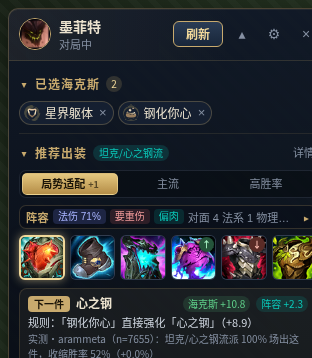
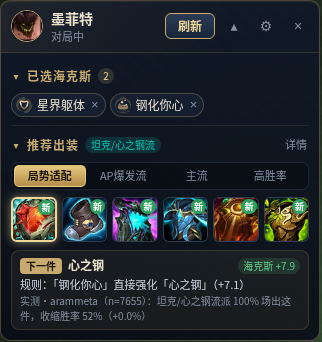
feat(overlay): augment cards show ranking points as the primary number, hide win rates by default (v0.3.2)

diff --git a/src/renderer/components/ManualOverlay.vue b/src/renderer/components/ManualOverlay.vue
@@ -202,11 +202,8 @@
                   </div>
                   <div class="mo-card-stats">
                     <template v-if="entry.method === 'shrunk'">
-                      <template v-if="!settings.hideWinRates">
-                        <span class="mo-wr">{{ formatPercent(entry.shrunkWinRate) }}</span>
-                        <span class="mo-delta" :class="deltaClass(entry.delta)">{{ formatDelta(entry.delta) }}</span>
-                      </template>
-                      <span class="mo-card-n" :title="cardSourceTitle(entry)">{{ cardSampleText(entry) }}</span>
+                      <span class="mo-score" :class="pointsClass(cardPoints(entry))" :title="SCORE_TITLE">{{ formatPoints(cardPoints(entry)) }}<small class="mo-score-unit">分</small></span>
+                      <span v-if="!settings.hideWinRates" class="mo-wr-small">胜率 {{ formatPercent(entry.shrunkWinRate) }}</span>
                       <span
                         v-if="synergyText(entry)"
                         class="mo-synergy"
@@ -214,6 +211,10 @@
                       >{{ synergyText(entry) }}</span>
                     </template>
                     <span v-else class="mo-muted">{{ entry.note }}</span>
+                  </div>
+                  <div v-if="entry.method === 'shrunk'" class="mo-card-sub" :title="cardSourceTitle(entry)">
+                    <span v-if="cardRarityText(entry)">{{ cardRarityText(entry) }}</span>
+                    <span class="mo-card-n">n={{ cardSampleText(entry) }}</span>
                   </div>
                   <div v-if="cardDetails" class="mo-card-detail">
                     <div v-if="entry.method === 'shrunk'">{{ cardDetailText(entry) }}</div>
@@ -269,10 +270,10 @@
             <div v-if="cardDetails" class="mo-footnote">
               <div v-if="ranking.method === 'rank-fallback'">无胜率数据：按热度排序，仅供参考</div>
               <div v-else-if="cardRankingSource !== 'dtodo'">
-                arammeta 方法：胜率向英雄基线 {{ settings.hideWinRates ? '' : formatPercent(ranking.baselineWinRate) }} 收缩（先验 {{ ranking.alpha }} 场），按 10% 保守下界 − 基线排序、同稀有度内比较；arammeta 没有的卡用 dtodo 胜率（同样收缩）；契合度（规则）最多调整 ±2 个百分点
+                大数字 = 排序分（相对英雄基线的百分点：arammeta 保守提升 + 契合度调整），数字大的永远排前面。arammeta 方法：胜率向英雄基线 {{ settings.hideWinRates ? '' : formatPercent(ranking.baselineWinRate) }} 收缩（先验 {{ ranking.alpha }} 场），按 10% 保守下界 − 基线排序、同稀有度内比较；arammeta 没有的卡用 dtodo 胜率（同样收缩）；契合度（规则）最多调整 ±2 个百分点
               </div>
               <div v-else-if="ranking.baselineWinRate != null">
-                收缩胜率 = (胜场 + α×{{ ranking.baselineSource === 'cards' ? '三卡平均' : '英雄平均' }}) / (场次 + α)，α={{ ranking.alpha }}，基准 {{ formatPercent(ranking.baselineWinRate) }}；契合度最多调整 ±2 个百分点
+                大数字 = 排序分（收缩胜率 + 契合度调整 − 基准，百分点）。收缩胜率 = (胜场 + α×{{ ranking.baselineSource === 'cards' ? '三卡平均' : '英雄平均' }}) / (场次 + α)，α={{ ranking.alpha }}{{ settings.hideWinRates ? '' : `，基准 ${formatPercent(ranking.baselineWinRate)}` }}；契合度最多调整 ±2 个百分点
               </div>
               <div>{{ ranking.summary }}</div>
               <div v-if="arammetaLine" class="mo-attribution">{{ arammetaLine }}</div>
@@ -375,7 +376,7 @@
                   class="mo-plan-tab"
                   :class="{ 'mo-plan-tab-active': activePlan?.key === plan.key }"
                   role="tab"
-                  :title="`${planTabLabel(plan)}\n${plan.description}\n路线：${plan.routeLabel} · ${plan.routeGames} 场 · 胜率 ${formatPercent(plan.routeWinRate)}`"
+                  :title="`${planTabLabel(plan)}\n${plan.description}\n路线：${plan.routeLabel} · ${plan.routeGames} 场${settings.hideWinRates ? '' : ` · 胜率 ${formatPercent(plan.routeWinRate)}`}`"
                   @click="selectPlan(plan.key)"
                 >{{ plan.label }}<span v-if="plan.aliases.length" class="mo-plan-alias">+{{ plan.aliases.length }}</span></button>
               </div>
@@ -497,7 +498,7 @@
                 <div class="mo-detail-plans">
                   <div v-for="plan in plans" :key="`plan-detail-${plan.key}`" class="mo-detail-plan" :class="{ 'mo-detail-plan-active': activePlan?.key === plan.key }">
                     <b>{{ planTabLabel(plan) }}</b>
-                    <span>{{ plan.routeLabel }} · {{ plan.routeGames }} 场 · 胜率 {{ formatPercent(plan.routeWinRate) }}{{ plan.usesAugments || plan.usesTeam ? ` · 含${[plan.usesAugments ? '海克斯' : '', plan.usesTeam ? '阵容' : ''].filter(Boolean).join('+')}模型` : ' · 纯数据' }}</span>
+                    <span>{{ plan.routeLabel }} · {{ plan.routeGames }} 场{{ settings.hideWinRates ? '' : ` · 胜率 ${formatPercent(plan.routeWinRate)}` }}{{ plan.usesAugments || plan.usesTeam ? ` · 含${[plan.usesAugments ? '海克斯' : '', plan.usesTeam ? '阵容' : ''].filter(Boolean).join('+')}模型` : ' · 纯数据' }}</span>
                     <span class="mo-detail-plan-desc">{{ plan.description }}</span>
                   </div>
                 </div>
@@ -536,6 +537,7 @@ import { electronAPI, hasElectronAPI } from '../native/electron-api.ts'
 import { getAugmentIconUrl, getChampionSquareIconUrl, getItemIconUrl } from '../service/cdn.js'
 import {
   rankAugmentChoices,
+  rankingPoints,
   type AugmentChoiceInput,
 } from '../../shared/augment-choice-ranking.ts'
 import { ARAMMETA_ATTRIBUTION } from '../../shared/arammeta/normalize.ts'
@@ -639,7 +641,7 @@ const settings = reactive<ManualOverlaySettings>({
   opacity: 0.92,
   scale: 1,
   collapsedSections: [],
-  hideWinRates: false,
+  hideWinRates: true,
 })
 const showSettings = ref(false)
 const championId = ref<number | null>(null)
@@ -960,7 +962,23 @@ const cardRankingSource = computed(() => (ranking.value as { source?: string }).
 const RARITY_SHORT: Record<string, string> = { kPrismatic: '棱彩', kGold: '金', kSilver: '银' }
 type CardEntry = SynergyRankedChoice<CardInput> & Partial<ArammetaRankedChoice<CardInput>>
 
-/** 默认视图只放样本量（紧凑）；同稀有度名次在悬停提示与详情里 */
+const SCORE_TITLE = '排序分：相对本英雄基线的百分点（arammeta 用保守下界，含契合度调整），数字大的排前面'
+function cardPoints(entry: CardEntry) {
+  return rankingPoints(entry, ranking.value.baselineWinRate)
+}
+function formatPoints(points: number | null) {
+  if (points == null) return '—'
+  return `${points > 0 ? '+' : points < 0 ? '−' : '±'}${Math.abs(points).toFixed(1)}`
+}
+function pointsClass(points: number | null) {
+  if (points == null || Math.abs(points) < 0.3) return 'mo-muted'
+  return points > 0 ? 'mo-up' : 'mo-down'
+}
+function cardRarityText(entry: CardEntry) {
+  return entry.rarityRank ? `同品质第 ${entry.rarityRank.rank}/${entry.rarityRank.total}` : ''
+}
+
+/** 样本量（紧凑） */
 function cardSampleText(entry: CardEntry) {
   return `${compactGames(entry.games)}${entry.source === 'dtodo' ? '·dtodo' : ''}`
 }
@@ -1113,6 +1131,7 @@ function itemTooltip(item: EngineItem) {
 function cardTooltip(entry: SynergyRankedChoice<CardInput>) {
   const lines = [`${entry.card.name}（点击记录为已选）`]
   if (entry.method === 'shrunk') {
+    lines.push(`排序分 ${formatPoints(cardPoints(entry as CardEntry))}（相对本英雄基线，百分点）`)
     if (!settings.hideWinRates) lines.push(`收缩胜率 ${formatPercent(entry.shrunkWinRate)}（相对基准 ${formatDelta(entry.delta)}）`)
     lines.push(cardDetailText(entry as CardEntry))
   }
@@ -1361,11 +1380,6 @@ function formatDelta(value: number | null | undefined) {
   if (!Number.isFinite(number)) return ''
   const points = number * 100
   return `${points > 0 ? '+' : points < 0 ? '−' : '±'}${Math.abs(points).toFixed(1)}`
-}
-
-function deltaClass(value: number | null | undefined) {
-  const number = Number(value)
-  return number > 0.0005 ? 'mo-up' : number < -0.0005 ? 'mo-down' : 'mo-muted'
 }
 
 function cardClass(entry: SynergyRankedChoice<CardInput>) {
@@ -1803,7 +1817,11 @@ onBeforeUnmount(() => {
 }
 .mo-card-stats { display: flex; align-items: baseline; gap: 6px; margin-top: 1px; white-space: nowrap; overflow: hidden; }
 .mo-plan-alias { margin-left: 3px; font-size: 9px; opacity: 0.65; }
-.mo-wr { color: var(--mo-ivory); font-size: 14px; font-weight: 700; font-variant-numeric: tabular-nums; }
+.mo-score { font-size: 15px; font-weight: 700; font-variant-numeric: tabular-nums; letter-spacing: 0.2px; }
+.mo-score.mo-muted { color: var(--mo-ivory); opacity: 0.8; }
+.mo-score-unit { margin-left: 2px; font-size: 9px; font-weight: 500; opacity: 0.7; }
+.mo-wr-small { font-size: 10px; color: rgba(200, 210, 225, 0.62); font-variant-numeric: tabular-nums; }
+.mo-card-sub { display: flex; gap: 6px; margin-top: 1px; font-size: 10px; line-height: 1.3; color: rgba(200, 210, 225, 0.55); white-space: nowrap; overflow: hidden; }
 .mo-delta { font-size: 11px; font-weight: 600; font-variant-numeric: tabular-nums; }
 .mo-up { color: var(--mo-up); }
 .mo-down { color: var(--mo-down); }

diff --git a/src/main/services/manual-overlay/manual-overlay-service.ts b/src/main/services/manual-overlay/manual-overlay-service.ts
@@ -36,6 +36,8 @@ import { DEFAULT_SHRINKAGE_ALPHA } from '../../../shared/augment-choice-ranking.
 
 export const DEFAULT_MANUAL_OVERLAY_HOTKEY = 'CommandOrControl+Shift+R'
 export const MANUAL_OVERLAY_SETTINGS_KEY = 'manualOverlay.settings'
+/** 0.3.2：海克斯卡改成「排序分」为主数字，胜率默认隐藏；旧设置迁移一次（之后用户可以再打开） */
+export const HIDE_WIN_RATES_MIGRATION_KEY = 'manualOverlay.migrations.hideWinRatesDefault'
 export const MANUAL_OVERLAY_COLLAPSED_KEY = 'manualOverlay.collapsed'
 export const DEFAULT_COLLAPSE_HOTKEY = 'CommandOrControl+Shift+H'
 const SECTIONS: ManualOverlaySection[] = ['cards', 'picked', 'build']
@@ -56,7 +58,7 @@ export const DEFAULT_MANUAL_OVERLAY_SETTINGS: ManualOverlaySettings = {
   opacity: 0.92,
   scale: 1,
   collapsedSections: [],
-  hideWinRates: false,
+  hideWinRates: true,
 }
 
 function clampNumber(value: unknown, min: number, max: number, fallback: number, step = 0.01): number {
@@ -176,7 +178,7 @@ function sanitizeSettings(raw: unknown): ManualOverlaySettings {
     collapsedSections: Array.isArray(value.collapsedSections)
       ? SECTIONS.filter((section) => (value.collapsedSections as unknown[]).includes(section))
       : [],
-    hideWinRates: value.hideWinRates === true,
+    hideWinRates: value.hideWinRates !== false,
   }
 }
 
@@ -340,6 +342,12 @@ export class ManualOverlayService {
     this.settings = sanitizeSettings(
       deps.store.get(MANUAL_OVERLAY_SETTINGS_KEY),
     )
+    if (deps.store.get(HIDE_WIN_RATES_MIGRATION_KEY) !== true) {
+      // 一次性：旧版本存的 hideWinRates=false 改成 true
+      this.settings = { ...this.settings, hideWinRates: true }
+      if (deps.store.get(MANUAL_OVERLAY_SETTINGS_KEY) != null) deps.store.set(MANUAL_OVERLAY_SETTINGS_KEY, { ...this.settings })
+      deps.store.set(HIDE_WIN_RATES_MIGRATION_KEY, true)
+    }
     this.state = {
       phase: null,
       gameRevision: 0,

diff --git a/tests/unit/real-match-fixes.test.ts b/tests/unit/real-match-fixes.test.ts
@@ -207,3 +207,22 @@ describe('8. 低优先级', () => {
     }
   })
 })
+
+describe('0.3.2 卡片主数字 = 排序分', () => {
+  it('数字大的卡永远排在前面（含契合度重排），没数据的为 null', async () => {
+    const { rankingPoints } = await import('../../src/shared/augment-choice-ranking.ts')
+    for (const ctx of [shaco, syndra, sion]) {
+      const pool = (ctx.champ.augments as any[]).slice(0, 12).map((a) => a.id)
+      for (let i = 0; i + 2 < pool.length; i += 3) {
+        const cards = [...pool.slice(i, i + 3).map((id, slot) => ({ id, slot, detectedSlot: slot })), { id: 999999, slot: 3, detectedSlot: 3 }]
+        const base = rankAugmentChoicesArammeta(cards as any, ctx.champ, { rarityOf: ctx.rarityOf })
+        const ranked = applyCardSynergy(base as any, (card: any) => ({ score: (card.id % 7) - 3, parts: { items: 0, archetype: 0, held: 0, trio: 0, team: 0 }, reasons: [] }))
+        const points = ranked.choices.map((choice) => rankingPoints(choice, ranked.baselineWinRate))
+        const known = points.filter((p): p is number => p != null)
+        for (let k = 1; k < known.length; k++) expect(known[k]).toBeLessThanOrEqual(known[k - 1])
+        expect(points[points.length - 1]).toBeNull()
+        expect(ranked.choices[ranked.choices.length - 1].relativeLabel).toBe('无数据')
+      }
+    }
+  })
+})

diff --git a/tests/unit/manual-overlay-service.test.ts b/tests/unit/manual-overlay-service.test.ts
@@ -1,5 +1,7 @@
 import { describe, expect, it, vi } from 'vitest'
 import {
+  HIDE_WIN_RATES_MIGRATION_KEY,
+  MANUAL_OVERLAY_SETTINGS_KEY,
   DEFAULT_MANUAL_OVERLAY_HOTKEY,
   ManualOverlayService,
   type ManualOverlayDeps,
@@ -195,9 +197,21 @@ describe('ManualOverlayService', () => {
       opacity: 0.92,
       scale: 1,
       collapsedSections: [],
-      hideWinRates: false,
+      hideWinRates: true,
     })
     expect(settings).not.toHaveProperty('autoScreenshot')
+  })
+
+  it('migrates hideWinRates to true once, then respects the user turning it off', () => {
+    const { deps, storeValues } = createDeps()
+    storeValues.set(MANUAL_OVERLAY_SETTINGS_KEY, { hideWinRates: false, opacity: 0.8 })
+    const first = new ManualOverlayService(deps)
+    expect(first.getSettings().hideWinRates).toBe(true)
+    expect((storeValues.get(MANUAL_OVERLAY_SETTINGS_KEY) as any).hideWinRates).toBe(true)
+    expect((storeValues.get(MANUAL_OVERLAY_SETTINGS_KEY) as any).opacity).toBe(0.8)
+    expect(storeValues.get(HIDE_WIN_RATES_MIGRATION_KEY)).toBe(true)
+    storeValues.set(MANUAL_OVERLAY_SETTINGS_KEY, { hideWinRates: false })
+    expect(new ManualOverlayService(deps).getSettings().hideWinRates).toBe(false)
   })
 
   it('parses live client data', async () => {

diff --git a/src/shared/augment-choice-ranking.ts b/src/shared/augment-choice-ranking.ts
@@ -285,3 +285,17 @@ export function rankAugmentChoices<T extends AugmentChoiceInput>(
     summary,
   }
 }
+
+/**
+ * 卡片主数字「排序分」（百分点）：= 排序实际用的值 − 英雄基线。
+ * 排序值优先用契合度调整后的 combinedWinRate，其次 sortWinRate（arammeta：基线 + 保守提升），最后收缩胜率。
+ * 选它而不是「收缩胜率 − 基线」：保证数字大的卡永远排在前面（首选/次选与数字一致）。
+ */
+export function rankingPoints(
+  choice: { combinedWinRate?: number | null; sortWinRate?: number | null; shrunkWinRate?: number | null },
+  baselineWinRate: number | null | undefined,
+): number | null {
+  const value = choice.combinedWinRate ?? choice.sortWinRate ?? choice.shrunkWinRate
+  if (value == null || baselineWinRate == null || !Number.isFinite(value) || !Number.isFinite(baselineWinRate)) return null
+  return Math.round((value - baselineWinRate) * 1000) / 10
+}
